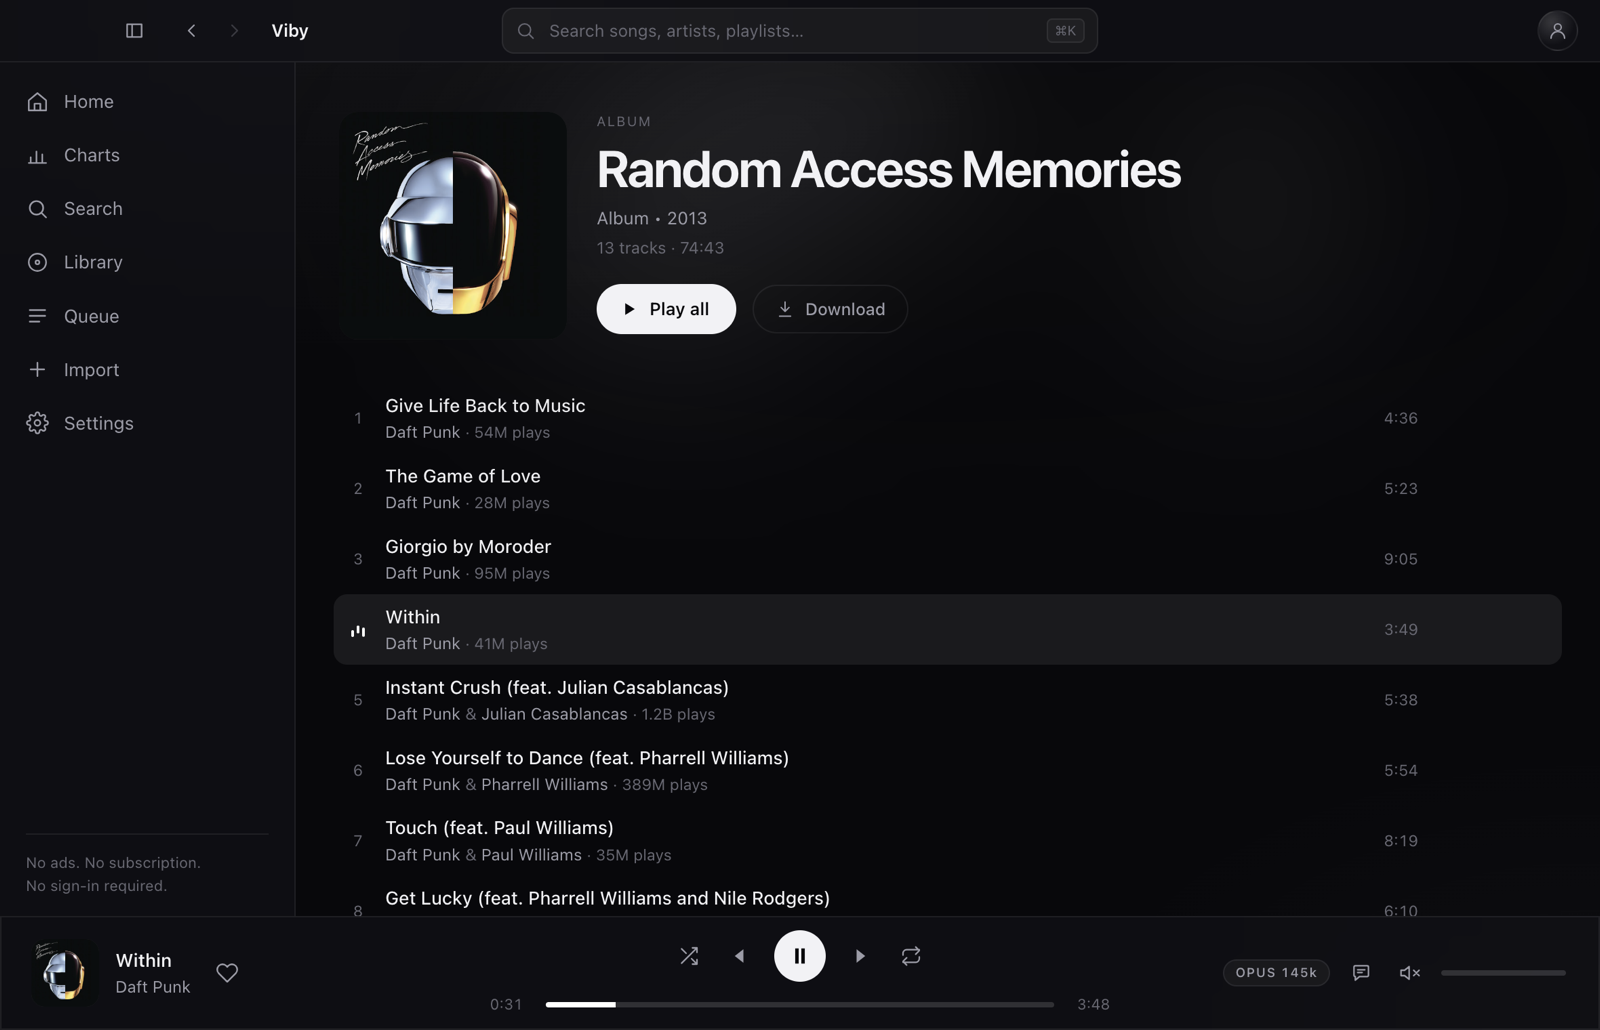
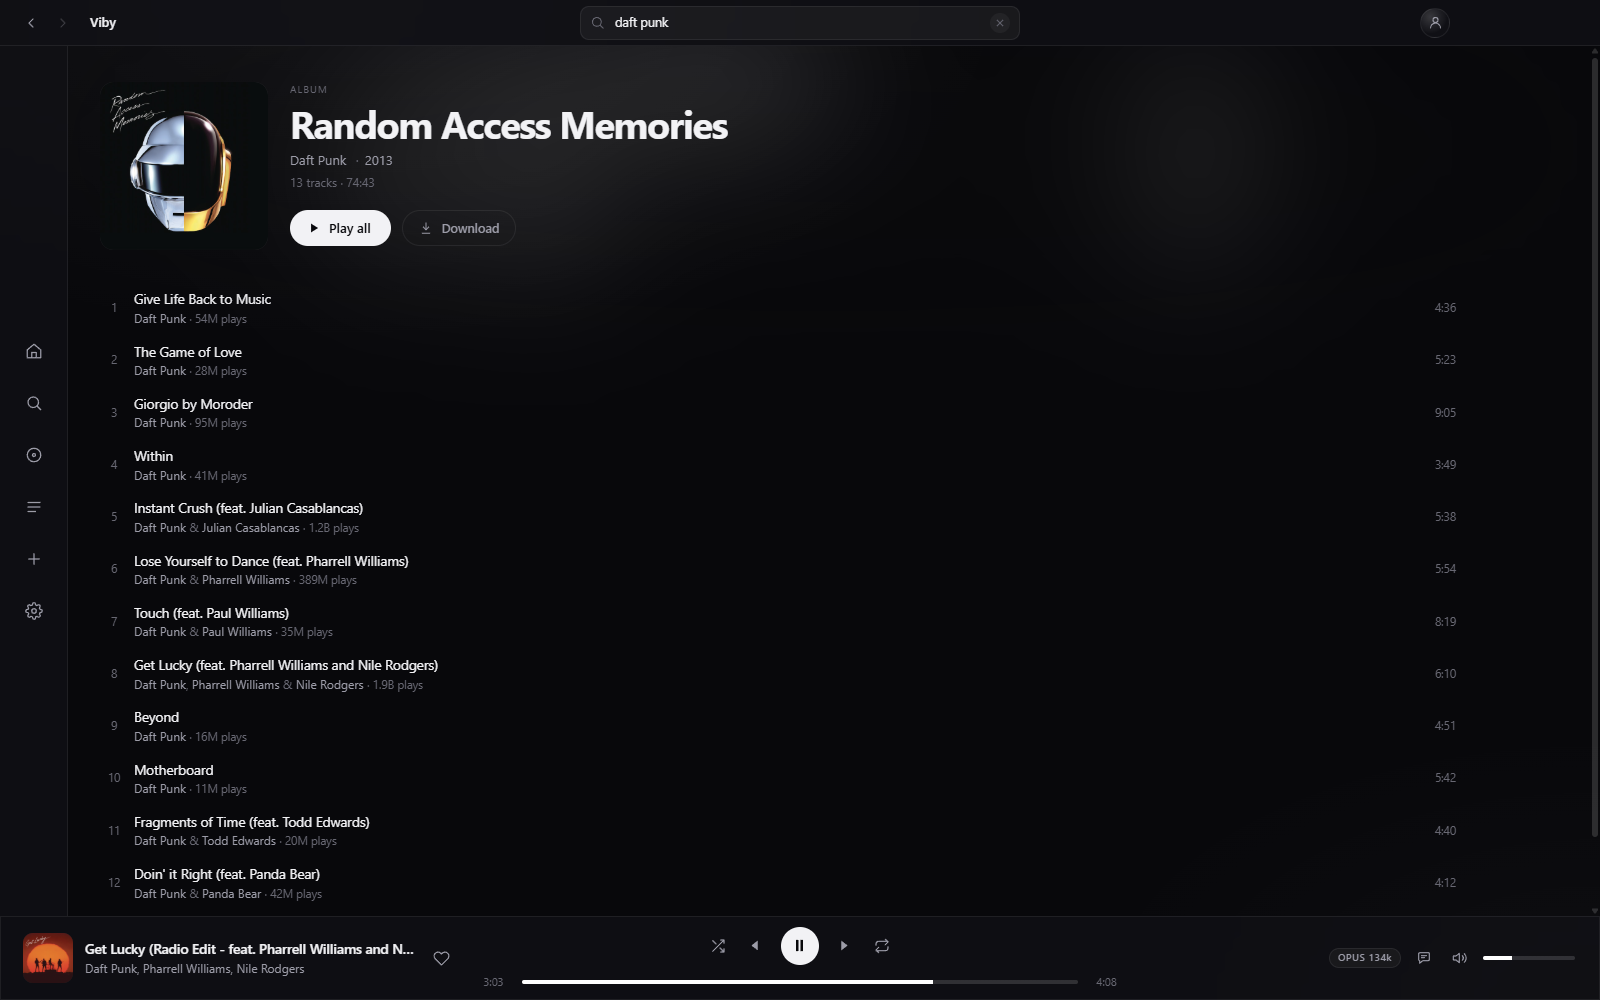
docs: refresh the readme and screenshots for 0.2.2

diff --git a/README.md b/README.md
@@ -5,61 +5,84 @@
 <h1 align="center">Viby</h1>
 
 <p align="center">
-  <strong>Listen without the noise.</strong><br />
-  A fast, ad-free desktop music player for macOS and Windows.
+  <strong>Music first. Everything else can wait.</strong><br />
+  An ad-free, account-free desktop music player for macOS and Windows.
 </p>
 
 <p align="center">
-  <img alt="macOS" src="https://img.shields.io/badge/macOS-Apple%20silicon%20%7C%20Intel-111111?style=flat-square&logo=apple&logoColor=white" />
-  <img alt="Windows" src="https://img.shields.io/badge/Windows-10%20%7C%2011-111111?style=flat-square&logo=windows&logoColor=white" />
-  <img alt="Status" src="https://img.shields.io/badge/status-public%20beta-111111?style=flat-square" />
-  <img alt="License" src="https://img.shields.io/badge/license-Apache%202.0-111111?style=flat-square" />
+  <a href="https://github.com/Rei-SU/Viby/releases/latest/download/Viby-macos-arm.dmg"><img alt="Download Viby for macOS on Apple silicon" src="https://img.shields.io/badge/macOS-Apple%20silicon-111111?style=flat-square&logo=apple&logoColor=white" /></a>
+  <a href="https://github.com/Rei-SU/Viby/releases/latest/download/Viby-macos-intel.dmg"><img alt="Download Viby for macOS on Intel" src="https://img.shields.io/badge/macOS-Intel-111111?style=flat-square&logo=apple&logoColor=white" /></a>
+  <a href="https://github.com/Rei-SU/Viby/releases/latest/download/Viby-windows-x64.exe"><img alt="Download Viby for Windows" src="https://img.shields.io/badge/Windows-x64-111111?style=flat-square&logo=windows&logoColor=white" /></a>
+  <a href="https://github.com/Rei-SU/Viby/releases/latest"><img alt="Latest version" src="https://img.shields.io/github/v/release/Rei-SU/Viby?style=flat-square&color=111111&label=version" /></a>
+  <a href="LICENSE"><img alt="License: Apache 2.0" src="https://img.shields.io/badge/license-Apache%202.0-111111?style=flat-square" /></a>
 </p>
 
-Viby is a desktop music player for people who just want to press play.
+Viby opens on your music, not on an offer. No sign-up screen, no ad before the first song, no upsell sitting between you and play. Search for something, press play, and the app gets out of the way.
 
-Browse artists, albums and playlists. Build a library that stays yours. Follow along with lyrics that move with the song. Download music for offline listening. No subscription, no ads, nothing to sit through — and no account required.
+It plays from YouTube Music's catalogue, so almost anything you look for is there. The player, the library, the lyrics and the downloads are built here — which is why none of them are trying to sell you anything, and why what you keep stays on your machine.
 
 <p align="center">
-  <img src="docs/screenshots/artist.png" alt="Viby artist page with a full-width banner and monthly listeners" />
+  <img src="docs/screenshots/home.png" alt="Viby home screen with recently played and music shelves" />
 </p>
 <p align="center">
-  <sub>Artist pages with full-width artwork, monthly listeners and the full discography.</sub>
+  <sub>Home — what you played last, then something new.</sub>
 </p>
 
-## What's inside
+## Get Viby
 
-- **A player that behaves.** Queue, shuffle, repeat, media keys, resume where you left off, and a local cache that makes replays instant.
-- **A catalogue worth browsing.** Search from the titlebar as you type (`⌘K` / `Ctrl K`), then open the full results page with filters, home shelves, and artist and album pages with real discographies.
-- **Lyrics that keep up.** Time-synced lyrics from LRCLIB, with lyrics.ovh as a plain-text fallback, click-to-seek, and a docked sidebar that leaves the page usable.
-- **A library that stays yours.** Liked songs, playlists and history stored locally and fully usable signed out. Optional encrypted backup and sync is planned after the beta.
-- **Offline when you need it.** Download songs, albums, playlists or Liked Songs and play them without a connection. Search and browsing need the network; your downloads do not.
-- **Import from a link.** Paste a public Spotify, Apple Music, Deezer, YouTube Music or SoundCloud playlist. Tracks are matched by title, artist and duration; anything uncertain is flagged for review, never silently swapped.
-- **Quiet by design.** A monochrome interface, a slim icon sidebar, a light idle footprint (well under 400 MB in our macOS tests), and a warm start around a second.
+Download the latest release with the badges above: **Apple silicon** for an M-series Mac, **Intel** for an older one, **x64** for Windows 10 or 11. Every version and its notes are on the [releases page](https://github.com/Rei-SU/Viby/releases).
 
-## Look around
+The macOS build is unsigned, so the first launch needs **right-click → Open**. After that it opens normally. The Windows installer is per-user and needs no administrator password; updates install in place.
+
+## What it does
+
+- **A player that behaves.** Queue, shuffle, repeat, media keys, resume where you left off, and a cache that makes a replay instant.
+- **A library that stays yours.** Liked songs, playlists and history on your disk, fully usable signed out. No account, no cloud, no "syncing…" spinner.
+- **Offline that means offline.** Download songs, albums, playlists or Liked Songs. The app follows your connection and falls back to what is on the device.
+- **Lyrics that keep up.** Time-synced lyrics from LRCLIB, plain text from lyrics.ovh as a backup, click any line to seek, and a docked panel that leaves the page usable.
+- **Your playlists, not a fresh start.** Paste a public Spotify, Apple Music, Deezer, YouTube Music or SoundCloud playlist. Tracks are matched by title, artist and duration; anything uncertain is flagged for review, never silently swapped.
+- **Quiet by design.** A monochrome interface, a slim icon rail, search from the titlebar (`⌘K` / `Ctrl K`), and a light footprint — under 400 MB at idle in our macOS tests.
+
+## A closer look
 
 <p align="center">
-  <img src="docs/screenshots/album.png" alt="Album page with a real track list, play counts and durations" />
+  <img src="docs/screenshots/artist.png" width="49%" alt="Artist page with a full-width banner, monthly listeners and the discography" />
+  <img src="docs/screenshots/album.png" width="49%" alt="Album page with the artist, year, track list and durations" />
 </p>
 <p align="center">
-  <sub>Album pages with real track lists, play counts and durations.</sub>
+  <sub>Artist pages with real discographies &nbsp;·&nbsp; Album pages with real track lists, artist and year</sub>
 </p>
 
 <p align="center">
   <img src="docs/screenshots/lyrics.png" alt="Time-synced lyrics docked beside an artist page" />
 </p>
 <p align="center">
-  <sub>Time-synced lyrics docked beside the page; click any line to seek.</sub>
+  <sub>Lyrics docked beside the page. Click any line to jump to that moment.</sub>
 </p>
 
 <p align="center">
-  <img src="docs/screenshots/search.png" width="49%" alt="Search results with filters for songs, albums, artists and playlists" />
-  <img src="docs/screenshots/settings.png" width="49%" alt="Playback, offline mode, downloads and cache settings" />
+  <img src="docs/screenshots/search.png" width="49%" alt="Search results with a top result, songs and artists" />
+  <img src="docs/screenshots/downloads.png" width="49%" alt="A downloaded album with offline badge, track list and file sizes" />
 </p>
 <p align="center">
-  <sub>Search across songs, albums, artists and playlists &nbsp;·&nbsp; Playback, offline mode and storage, all local</sub>
+  <sub>Search across songs, albums, artists and playlists &nbsp;·&nbsp; Downloads keep their credits and play with the network off</sub>
 </p>
+
+## Where it stands
+
+Viby is small on purpose and still early. The version badge at the top always shows the latest release; the [releases page](https://github.com/Rei-SU/Viby/releases) has the notes for each one.
+
+- **macOS builds are unsigned and unnotarized.** Updates download the matching DMG; in-place macOS updates arrive with signing.
+- **Windows updates install in place.** Windows 11 is verified. Windows 10 has not been tested on real hardware yet.
+- **No accounts, no sync, no telemetry.** Your liked songs, playlists and history are local files. Optional, end-to-end encrypted backup and sync is planned, and it will never be required to listen.
+
+## What's next
+
+- Signed, notarized macOS builds — and with them, in-place macOS updates
+- Windows 10 validation on real hardware
+- Manual search for import rows that don't match on their own, plus album and single links in the importer
+- Drag-to-reorder playlists, add-to-playlist from the player bar, virtualized lists for very long playlists
+- Optional accounts: private, end-to-end encrypted backup and sync across devices
 
 ## Build from source
 
@@ -82,23 +105,9 @@ npm run dist:win   # Windows x64 installer
 
 Packaged builds need no Python install, no configuration file and no first-run setup screen.
 
-## What's next
-
-Viby is a public beta. The core is in place; the edges are still being sanded.
-
-- Signed and notarized macOS builds (which also enable in-place macOS updates)
-- Windows 10 validation on real hardware
-- Windows 11 Electron 45 re-check (Electron 37 checks pass, including offline/downloads and in-client updates)
-- Manual search for import rows that don't match automatically
-- Album and single links in the importer
-- Virtualized lists for playlists with thousands of tracks
-- Drag-to-reorder playlists
-- Add to playlist from the player bar
-- Optional accounts with private, end-to-end encrypted backup and sync across devices — planned after the core is fully polished
-
 ## Privacy
 
-No account is required, and this beta has no sign-in. No analytics, no telemetry, no ad tracking. Your library, playlists, history, downloads and cache live in your user data folder by default, and the app only talks to the network to browse, play, fetch lyrics, download music and import a link you paste. If optional accounts ship later, they will only back up and sync your library; listening will never require one.
+No account is required. No analytics, no telemetry, no ad tracking. Your library, playlists, history, downloads and cache live in your user data folder, and the app only talks to the network to browse, play, fetch lyrics, download music and import a link you paste. If optional accounts ship later, they will only back up and sync your library; listening will never require one.
 
 ## Contributing
 
